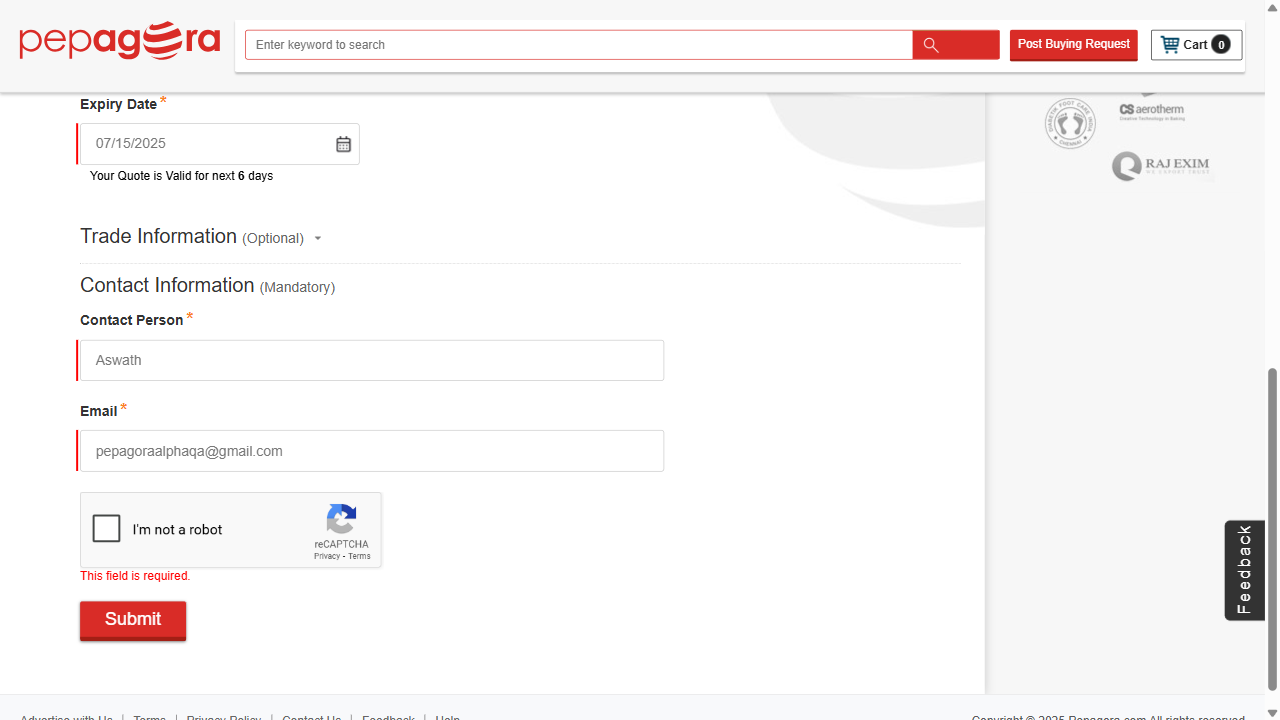
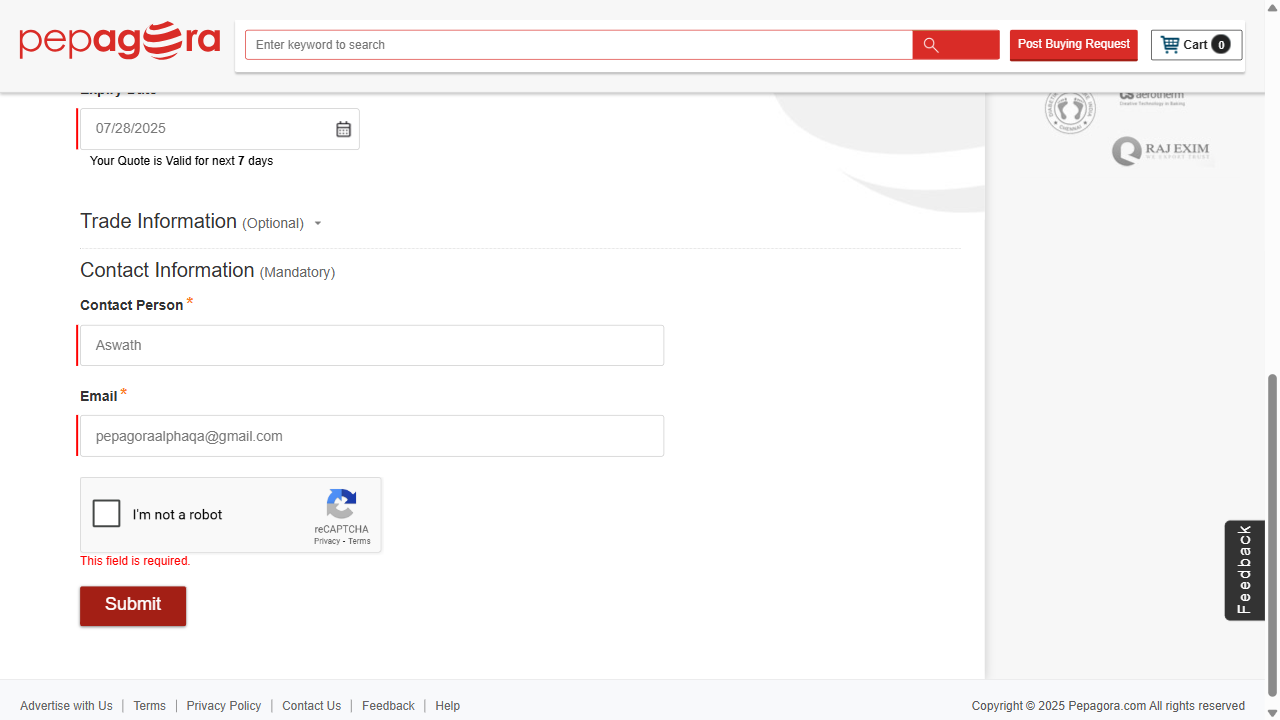
Refresh PHPS

diff --git a/tests/PepagoraHomePage.Spec.js b/tests/PepagoraHomePage.Spec.js
@@ -1,22 +1,28 @@
 import { test, expect } from '@playwright/test';
 
+import { defineConfig } from '@playwright/test';
+
 test('test', async ({ page }) => {
 
-  await page.goto('https://staging.pepagora.com/',{ waitUntil: 'domcontentloaded' });
+  await page.goto('https://staging.pepagora.com/');
 
   await page.getByRole('button', { name: '×' }).click();
 
   await page.getByRole('banner').getByRole('link', { name: 'Post Buying Request' }).click();
 
+  await page.screenshot({ path: 'buying-request-filled.png' });
+
   await page.locator('#product_name').click();
 
   await page.locator('#product_name').fill('Tyre');
 
-  await page.getByRole('textbox', { name: 'Search Categories' }).waitFor({ state: 'visible', timeout: 60000 });
+  await page.getByRole('link', { name: 'Select Category' }).click();
 
   await page.getByRole('textbox', { name: 'Search Categories' }).click();
 
   await page.getByRole('textbox', { name: 'Search Categories' }).fill('Tyre');
+
+  await page.getByRole('button', { name: 'Search' }).click();
 
   await page.getByText('Rubber & Plastics >> Rubber').click();
 
@@ -30,7 +36,7 @@ test('test', async ({ page }) => {
 
   await page.getByRole('textbox', { name: 'Date' }).click();
 
-  await page.getByRole('link', { name: '25', exact: true }).click();
+  await page.getByRole('link', { name: '28', exact: true }).click();
 
   await page.locator('input[name="prd_first_name"]').click();
 
@@ -39,7 +45,9 @@ test('test', async ({ page }) => {
   await page.locator('input[name="prd_email_id"]').click();
 
   await page.locator('input[name="prd_email_id"]').fill('pepagoraalphaqa@gmail.com');
-  
+
   await page.getByRole('link', { name: 'Submit' }).click();
+
+  await page.screenshot({ path: 'form-submitted.png' });
 
 });
